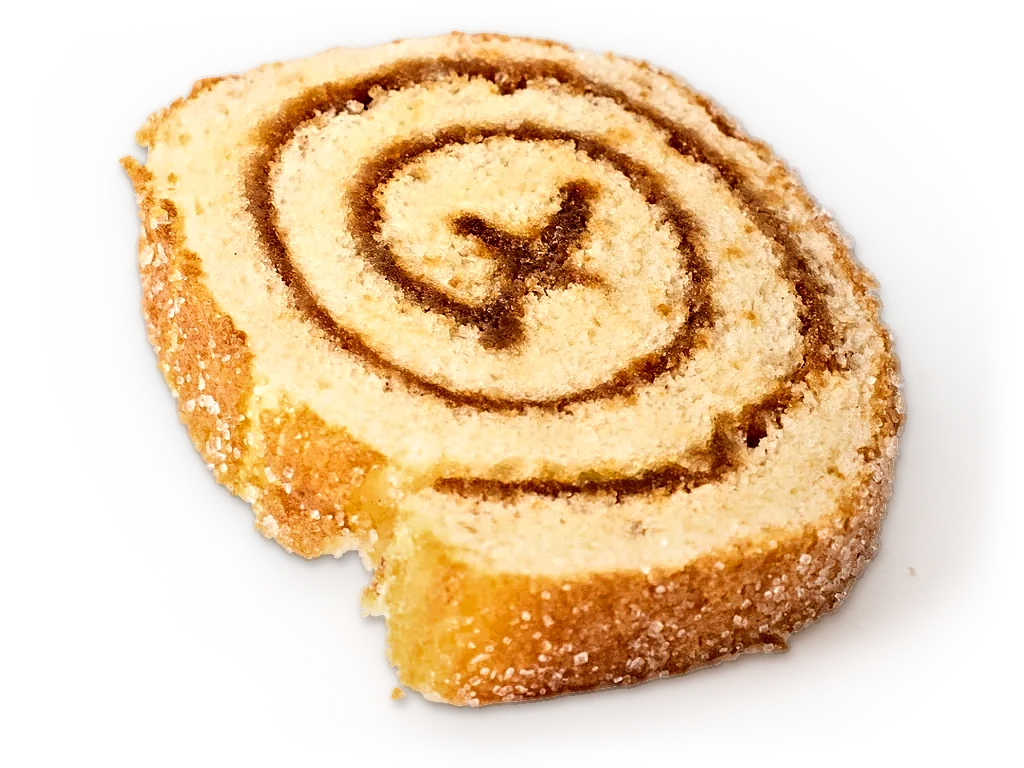
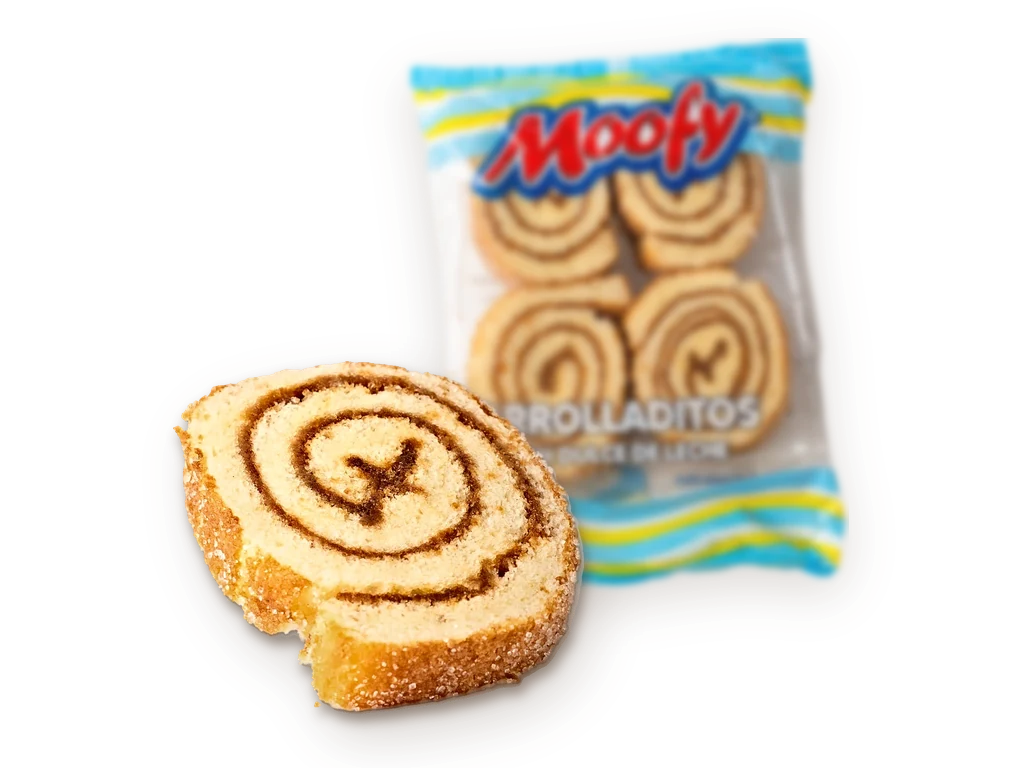
Mostrar cada producto delante de su empaque, como en estudio
La foto con la pieza y la bolsa se rechazó por verse sobrepuesta: la
pieza era más grande que la bolsa, cada recorte traía su propia sombra
y no había profundidad. Ahora se compone como una toma de estudio: el
empaque detrás con profundidad de campo (desenfocado, la marca aún se
lee), la pieza delante y nítida a una escala coherente con las de la
bolsa, y una sola luz con la misma sombra para todo. Las fotos son los
recortes del catálogo oficial; no se genera nada.

El fondo sigue transparente para que el papel lo ponga --estudio. Los
bizcochos de maíz no tienen foto del empaque y quedan con la pieza sola.

diff --git a/libs/moofy/frontend/shared/src/lib/data/site.ts b/libs/moofy/frontend/shared/src/lib/data/site.ts
@@ -144,7 +144,7 @@ export const LINEAS = {
       productos: ['Palmeritas', 'Costilla con guayaba', 'Empanadas'],
       ideal: 'Cafeterías · Hoteles',
       imagen: 'img/productos/palmeritas.webp',
-      alt: 'Palmerita azucarada de hojaldre.',
+      alt: 'Palmerita azucarada de hojaldre, delante de su bolsa Moofy.',
     },
     {
       id: 'gatos',
@@ -153,7 +153,7 @@ export const LINEAS = {
       productos: ['Choco gatos', 'Gatos de piña', 'Gatos de guayaba'],
       ideal: 'Supermercados · Conveniencia',
       imagen: 'img/productos/choco-gatos.webp',
-      alt: 'Choco gato relleno de dulce de leche.',
+      alt: 'Choco gato relleno de dulce de leche, delante de su bolsa Moofy.',
     },
     {
       id: 'pasteleria',
@@ -162,7 +162,7 @@ export const LINEAS = {
       productos: ['Arrollado', 'Torta chilena', 'Quequito'],
       ideal: 'Cafeterías · Catering',
       imagen: 'img/productos/torta-chilena.webp',
-      alt: 'Porción de torta chilena con dulce de leche.',
+      alt: 'Porción de torta chilena con dulce de leche, delante de su empaque Moofy.',
     },
     {
       id: 'panaderia-dulce',
@@ -171,7 +171,7 @@ export const LINEAS = {
       productos: ['Rollitos de canela', 'Media luna'],
       ideal: 'Hoteles · Cafeterías',
       imagen: 'img/productos/rollitos-canela.webp',
-      alt: 'Rollito de canela glaseado.',
+      alt: 'Rollito de canela glaseado, delante de su caja Moofy.',
     },
     {
       id: 'galleteria',
@@ -180,7 +180,7 @@ export const LINEAS = {
       productos: ['Julietas', 'Choco chip y avena', 'Galletas Pan', 'Bizcotela'],
       ideal: 'Supermercados · Vending',
       imagen: 'img/productos/julietas.webp',
-      alt: 'Galleta dulce tipo Julieta con su punto de guayaba.',
+      alt: 'Galleta dulce tipo Julieta con su punto de guayaba, delante de su bolsa Moofy.',
     },
     {
       id: 'salados',
@@ -189,7 +189,7 @@ export const LINEAS = {
       productos: ['Palitos de queso', 'Rosquillas', 'Grissines', 'Bizcochos de maíz', 'Bizcochos de guayaba'],
       ideal: 'Conveniencia · Vending',
       imagen: 'img/productos/palitos-queso.webp',
-      alt: 'Palito casero con queso.',
+      alt: 'Palito casero con queso, delante de su bolsa Moofy.',
     },
   ],
 } as const;
@@ -205,7 +205,7 @@ export interface Producto {
   /** Resumen de la ficha del catálogo; null si la del catálogo no sirve. */
   readonly descripcion: string | null;
   readonly atributos: readonly string[];
-  /** La pieza sola, sin fondo; null si el catálogo no trae foto. */
+  /** La pieza delante de su empaque, sin fondo; null si el catálogo no trae foto. */
   readonly imagen: string | null;
   /** El empaque, en miniatura, para reconocerlo en la góndola; null si
    *  no hay foto de él o si la foto principal ya es el empaque. */
@@ -228,7 +228,7 @@ export const PRODUCTOS: readonly Producto[] = [
     atributos: ['Crujiente y ligera', 'Capas hojaldradas'],
     imagen: 'img/productos/palmeritas.webp',
     empaque: 'img/productos/palmeritas-empaque.webp',
-    alt: 'Palmerita azucarada.',
+    alt: 'Palmerita azucarada, delante de su bolsa Moofy.',
   },
   {
     id: 'costilla-guayaba',
@@ -239,7 +239,7 @@ export const PRODUCTOS: readonly Producto[] = [
     atributos: ['Crocante', 'Centro suave'],
     imagen: 'img/productos/costilla-guayaba.webp',
     empaque: 'img/productos/costilla-guayaba-empaque.webp',
-    alt: 'Costilla de hojaldre rellena de guayaba.',
+    alt: 'Costilla de hojaldre rellena de guayaba, delante de su bolsa Moofy.',
   },
   {
     id: 'empanadas',
@@ -261,7 +261,7 @@ export const PRODUCTOS: readonly Producto[] = [
     atributos: ['Suave y esponjoso', 'Relleno cremoso'],
     imagen: 'img/productos/choco-gatos.webp',
     empaque: 'img/productos/choco-gatos-empaque.webp',
-    alt: 'Choco gato relleno de dulce de leche.',
+    alt: 'Choco gato relleno de dulce de leche, delante de su bolsa Moofy.',
   },
   {
     id: 'gatos-pina',
@@ -272,7 +272,7 @@ export const PRODUCTOS: readonly Producto[] = [
     atributos: ['Suave y esponjoso', 'Relleno frutal'],
     imagen: 'img/productos/gatos-pina.webp',
     empaque: 'img/productos/gatos-pina-empaque.webp',
-    alt: 'Gato relleno de piña.',
+    alt: 'Gato relleno de piña, delante de su bolsa Moofy.',
   },
   {
     id: 'gatos-guayaba',
@@ -283,7 +283,7 @@ export const PRODUCTOS: readonly Producto[] = [
     atributos: ['Suave y ligero', 'Sabor tropical'],
     imagen: 'img/productos/gatos-guayaba.webp',
     empaque: 'img/productos/gatos-guayaba-empaque.webp',
-    alt: 'Gato relleno de guayaba.',
+    alt: 'Gato relleno de guayaba, delante de su bolsa Moofy.',
   },
   {
     id: 'arrollado',
@@ -294,7 +294,7 @@ export const PRODUCTOS: readonly Producto[] = [
     atributos: ['Ligero y esponjoso', 'Relleno dulce'],
     imagen: 'img/productos/arrollado.webp',
     empaque: 'img/productos/arrollado-empaque.webp',
-    alt: 'Rodaja de arrollado con dulce de leche.',
+    alt: 'Rodaja de arrollado con dulce de leche, delante de su bolsa Moofy.',
   },
   {
     id: 'torta-chilena',
@@ -305,7 +305,7 @@ export const PRODUCTOS: readonly Producto[] = [
     atributos: ['Capas finas', 'Relleno abundante'],
     imagen: 'img/productos/torta-chilena.webp',
     empaque: 'img/productos/torta-chilena-empaque.webp',
-    alt: 'Porción de torta chilena.',
+    alt: 'Porción de torta chilena, delante de su empaque Moofy.',
   },
   {
     id: 'quequito',
@@ -316,7 +316,7 @@ export const PRODUCTOS: readonly Producto[] = [
     atributos: ['Esponjoso', 'Dulce'],
     imagen: 'img/productos/quequito.webp',
     empaque: 'img/productos/quequito-empaque.webp',
-    alt: 'Quequito de vainilla.',
+    alt: 'Quequito de vainilla, delante de su bolsa Moofy.',
   },
   {
     id: 'rollitos-canela',
@@ -327,7 +327,7 @@ export const PRODUCTOS: readonly Producto[] = [
     atributos: ['Suave', 'Dulce'],
     imagen: 'img/productos/rollitos-canela.webp',
     empaque: 'img/productos/rollitos-canela-empaque.webp',
-    alt: 'Rollito de canela glaseado.',
+    alt: 'Rollito de canela glaseado, delante de su caja Moofy.',
   },
   {
     id: 'media-luna',
@@ -349,7 +349,7 @@ export const PRODUCTOS: readonly Producto[] = [
     atributos: ['Dulzor suave', 'Toque frutal'],
     imagen: 'img/productos/julietas.webp',
     empaque: 'img/productos/julietas-empaque.webp',
-    alt: 'Galleta tipo Julieta.',
+    alt: 'Galleta tipo Julieta, delante de su bolsa Moofy.',
   },
   {
     id: 'choco-chip-avena',
@@ -393,7 +393,7 @@ export const PRODUCTOS: readonly Producto[] = [
     atributos: ['Crocante', 'Ligero'],
     imagen: 'img/productos/palitos-queso.webp',
     empaque: 'img/productos/palitos-queso-empaque.webp',
-    alt: 'Palito casero con queso.',
+    alt: 'Palito casero con queso, delante de su bolsa Moofy.',
   },
   {
     id: 'rosquillas',
@@ -437,7 +437,7 @@ export const PRODUCTOS: readonly Producto[] = [
     atributos: ['Suave', 'Relleno dulce'],
     imagen: 'img/productos/bizcochos-guayaba.webp',
     empaque: 'img/productos/bizcochos-guayaba-empaque.webp',
-    alt: 'Bizcocho relleno de guayaba.',
+    alt: 'Bizcocho relleno de guayaba, delante de su caja Moofy.',
   },
 ];
 

diff --git a/libs/moofy/frontend/inicio/src/lib/sections/lineas/lineas.scss b/libs/moofy/frontend/inicio/src/lib/sections/lineas/lineas.scss
@@ -128,7 +128,7 @@
   /* En absoluto: con la imagen en el flujo, su alto intrínseco (vertical,
      2:3) gana al aspect-ratio del marco, porque overflow: clip no anula
      el min-height: auto. */
-  /* La foto es la pieza sola, sin fondo y con su sombra de estudio: se
+  /* La foto es la pieza delante de su empaque, sin fondo: se
      ve entera en cualquier proporción del marco, sobre el papel del
      estudio y por debajo de las insignias. */
   img {
